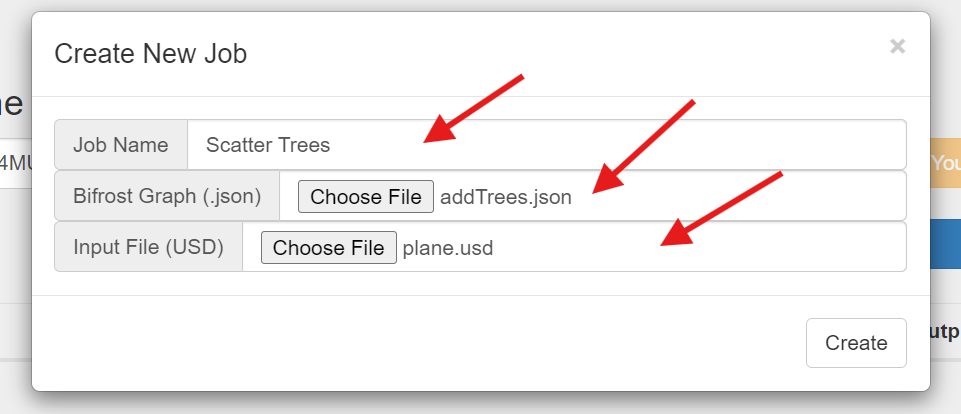
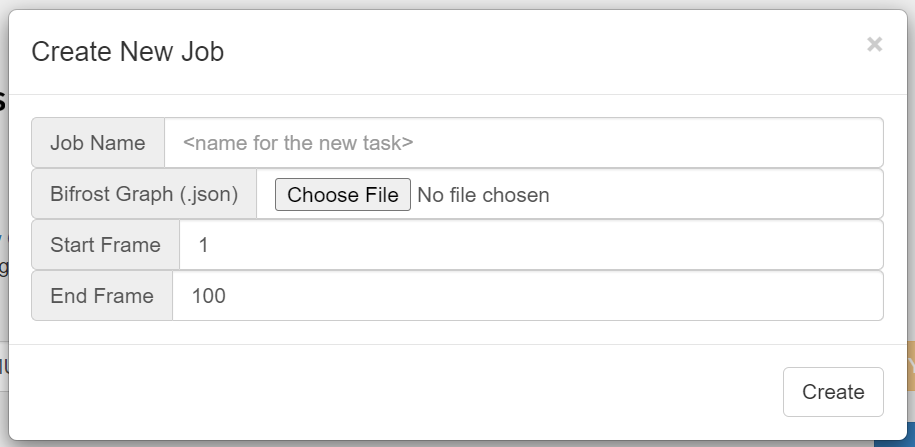
Updated README docs, added assets

Changed region(s): [[0.0, 0.0, 1.0, 1.0]]

diff --git a/README.md b/README.md
@@ -6,32 +6,46 @@
 [![License](https://img.shields.io/:license-mit-blue.svg)](https://opensource.org/licenses/MIT)
 
 
-This utility app enables you to view and create bifrost jobs, which are submitted to the Flow Graph Engine service.
+This utility app enables you to view and create bifrost jobs, which are submitted to the Flow Graph Engine service. This sample processes multiframe Bifrost simulation jobs and fetches the resultant frames which can then be used in Autodesk Maya.
 
 ### Thumbnail
 
-![thumbnail](screenshot.jpg)
+![thumbnail](readme/home.png)
 
 
 # Usage
 
-1. In the top text boxes Provide the **Client Id** and **Client Secret** of the app you created on the **Autodesk Developer Site** and click **Log In** button
+1. In the top text boxes Provide the **Client Id** and **Client Secret** of the app you created on the **Autodesk Developer Site** and click **Log In** button. Alternatively, you can use this URL format to pass in your credentials ```http://localhost:3000?client_id=<client id here>&client_secret=<client secret here>```.
 
 2. Once logged in (authenticated), we can start adding new jobs by clicking on the **New Job** button button to open the create job window.
 
 ![Create Job Popup](/readme/create-job-popup.png)
 
-3. In the popup, fill in the **Job Name** as you like, then select the **Bifrost File** and the **Input file** and submit the form. This consequently will begin the process of submitting the new job. 
-4. On successful job submission, the *Job Id** is returned and shown on the dashboard. Automatically, this will querry for the job status periodically and the new **status** updated on the dashboard as shown above.
-5. When the job has been processed, whether ***FAILED*** or ***SUCCEEDED***, the corresponding output files and logs will be shown on the output column. Here, to fetch the files, click on the link which will fetch the file link and initiate the download. A popup will be shown as below notifying you that the download has begun. Close the prompt and once the download completes, the save download will be opened.
+3. In the popup, fill in the **Job Name** as you like, then select the **Bifrost File**, the **Start & End Frames** and then submit the form. This consequently will begin the process of submitting the new job. 
+4. On successful job submission, the **Job Id** is returned and shown on the dashboard. Automatically, this will querry for the job status periodically and the new **status** updated on the dashboard as shown above.
+5. When the job has been processed, whether ***FAILED*** or ***SUCCEEDED***, the corresponding output files and logs will be shown on the output column. The output column will indicate the number of output files and/or number of log files generated by the service. On clicking on it, the directory where the files have been saved to will be copied to clipboard.
 
 ![Save File With Extesion](/readme/save-file.png)
 
-6. Once saved, you can open the respective files with the appropriate tools. If the processing failed, you can peek at the log file to know what went wrong in the execution. 
+6. You can navigate to the directory where the files have been saved to to check the files/logs. Note that, the job ID is is the parent directory name to the downloaded files.
 
+> Note that: Depending on the number of files to be fetched, the fetch process may complete later than than the response to the UI. **Countercheck the number of files in the directory vs the number of files noted on the web UI**.
 
+# Running Generated Files
+If evaluation on FGE was successful and files have been fetched locally, you can load the files back to Maya using the following graph. Note that the file formats for this sample were hardcoded to Bifrost Object format (.bob). Since generated files are a sequence, the filename for the Read bob is given as ```_directory_/file_cache.####.bob``` where the '####' will be expanded to the respective frame number.
 
-# Setup
+![Read .bob sequences](readme/read-bob-maya.png)
+
+To run the simulation in Maya, use the slider controls to step frame by frame or run through all frames.
+
+![Maya Animation Controls](readme/maya-animation-controls.png)
+
+# Bundled Bifrost Graphs Samples
+This sample has two Bifrost samples which are found in the Autodes Maya's Bifrost Browser. You can select the samples when creating a new job:
+- Plastic Deformation Sample: [```./input-samples/input-samples\plasticDeformationShape.json```](input-samples\plasticDeformationShape.json)
+- Sample Points By Radius[```./input-samples/samplePointsByRadiusShape.json```](input-samples\samplePointsByRadiusShape.json)
+
+# Development Setup
 
 ## Prerequisites
 
@@ -46,6 +60,7 @@ Install [NodeJS](https://nodejs.org).
 Clone this project or download it. To clone it via command line, use the following (**Terminal** on MacOSX/Linux, **Git Shell** on Windows):
 
     git clone https://github.com/allankoechke/flowgraphengine-queue
+    git checkout multiframe
 
 To run it, install the required packages, set the enviroment variables with your client ID & secret and finally start it. Via command line, navigate to the folder where this repository was cloned and use the following:
 
@@ -54,9 +69,7 @@ Mac OSX/Linux (Terminal) / Windows (use <b>Node.js command line</b> from Start m
     npm install
     npm start
 
-Open the browser: [http://localhost:3000](http://localhost:3000).
-
-**Important:** do not use **npm start** locally, this is intended for PRODUCTION only with HTTPS (SSL) secure cookies.
+Open the browser: [http://localhost:3000](http://localhost:3000?client_id=<client id here>&client_secret=<client secret here>).
 
 ## Packages used
 
@@ -84,9 +97,11 @@ Blogs:
 - [Flow Graph Engine Announcement](https://aps.autodesk.com/blog/introducing-first-me-oriented-aps-service-flow-graph-engine)
 
 ## Known Issues
-- Depending on the output file sizes, beware that the file fetching will take some time to complete.
 - There is no persistent credential storage nor token storage. Authetication has to be done on each reload or restart.
 - Jobs that fail on uploading can't be resubmitted, unless as a new job.
+
+## Limitation
+This sample does not expect any user file input apart from the bifrost graph itself. You can edit the sample to accomodate other input types.
 
 ## License
 
